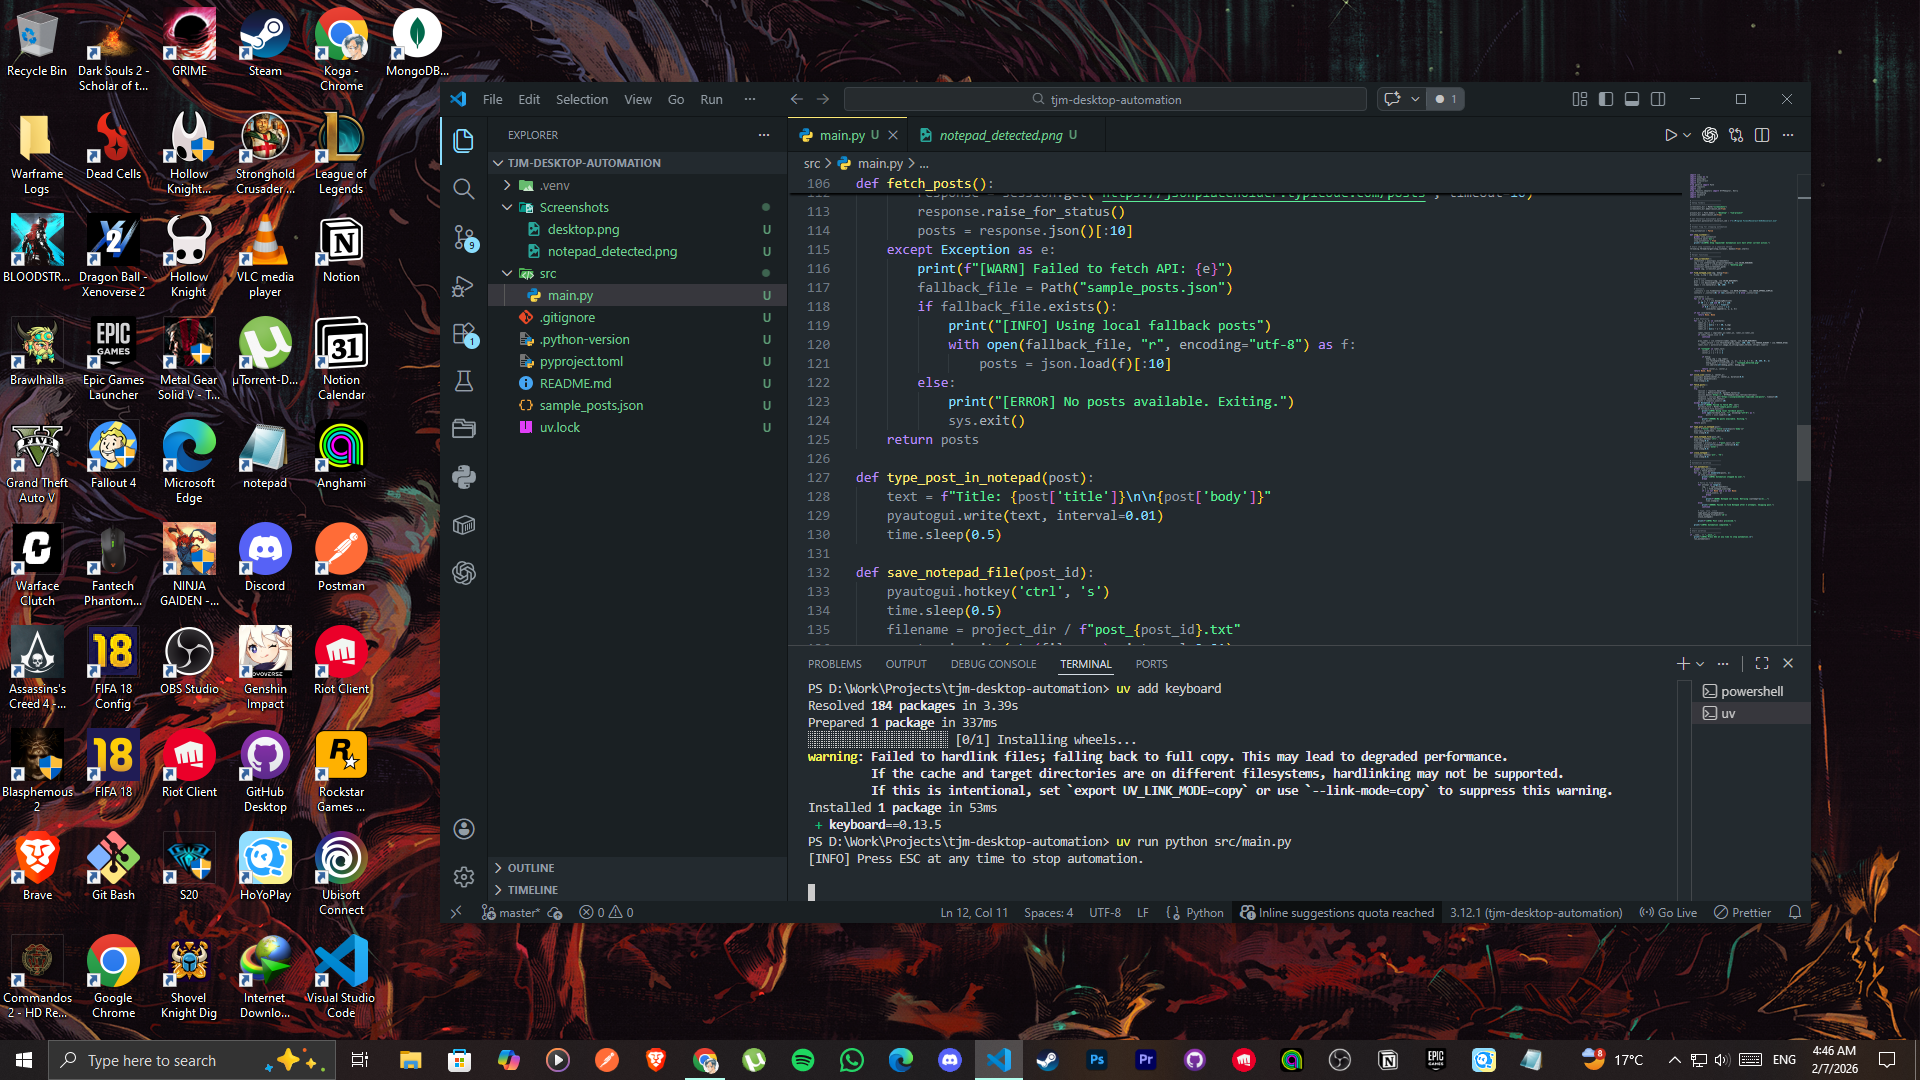
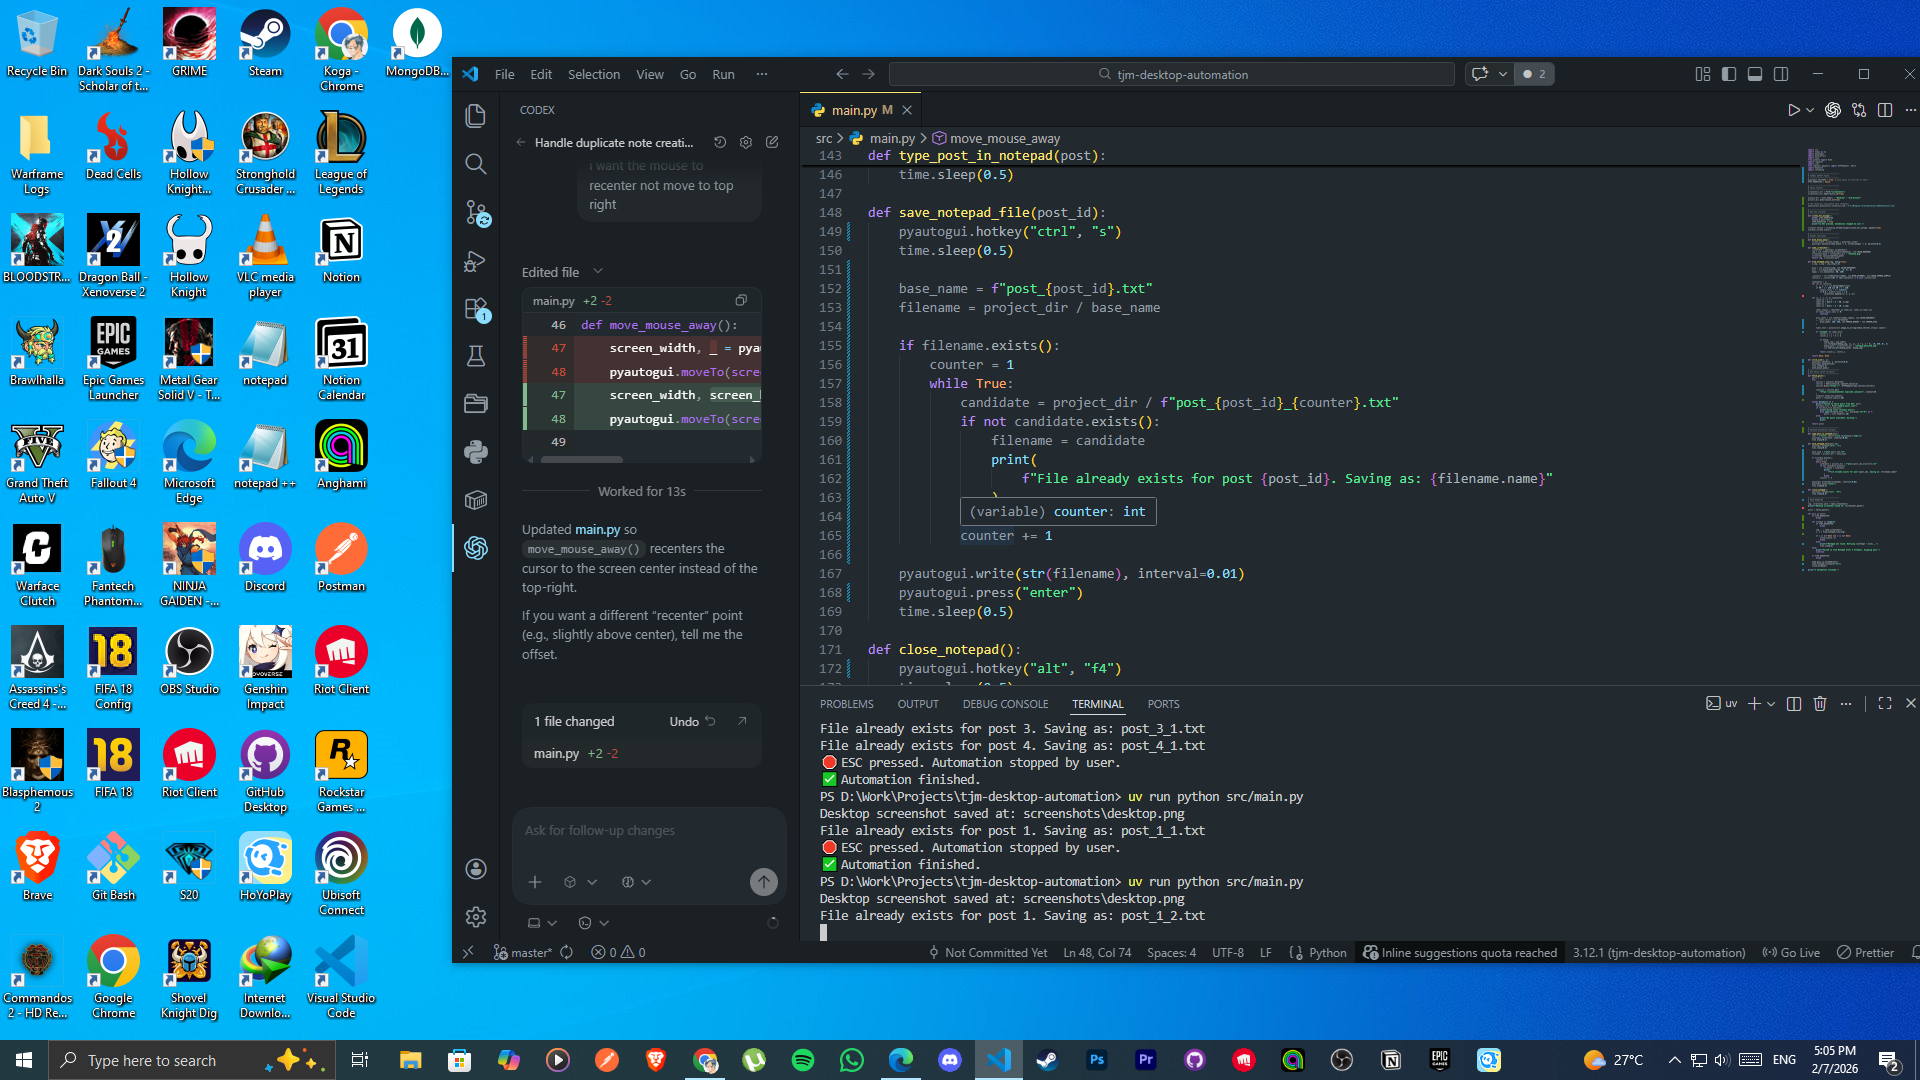
Failsafe Added

diff --git a/src/main.py b/src/main.py
@@ -7,7 +7,14 @@ from pathlib import Path
 import requests
 import json
 from requests.adapters import HTTPAdapter, Retry
-import os
+import keyboard
+import threading
+
+# -----------------------------
+# GLOBAL SAFETY FLAGS
+# -----------------------------
+pyautogui.FAILSAFE = True  # move mouse to top-left to abort
+STOP_REQUESTED = False
 
 # -----------------------------
 # Setup folders
@@ -15,11 +22,31 @@ import os
 screenshots_dir = Path("screenshots")
 screenshots_dir.mkdir(exist_ok=True)
 
+project_dir = Path.home() / "Desktop" / "tjm-project"
+project_dir.mkdir(exist_ok=True)
+
+# Set Tesseract executable path (Windows)
 pytesseract.pytesseract.tesseract_cmd = r"C:\Program Files\Tesseract-OCR\tesseract.exe"
+
+# -----------------------------
+# ESC key listener
+# -----------------------------
+def listen_for_escape():
+    global STOP_REQUESTED
+    keyboard.wait("esc")
+    STOP_REQUESTED = True
+    print("🛑 ESC pressed. Automation stopped by user.")
+
+listener_thread = threading.Thread(target=listen_for_escape, daemon=True)
+listener_thread.start()
 
 # -----------------------------
 # Helper functions
 # -----------------------------
+def move_mouse_away():
+    screen_width, screen_height = pyautogui.size()
+    pyautogui.moveTo(screen_width // 2, screen_height // 2, duration=0.3)
+
 def take_screenshot():
     screenshot = pyautogui.screenshot()
     img = cv2.cvtColor(np.array(screenshot), cv2.COLOR_RGB2BGR)
@@ -45,9 +72,6 @@ def find_notepad_icon(img, debug=True):
             if 0.8 < aspect_ratio < 1.2:
                 candidates.append((x, y, w, h))
 
-    if not candidates:
-        return None, None
-
     for (x, y, w, h) in candidates:
         label_y1 = y + h
         label_y2 = min(y + h + 40, h_img)
@@ -59,10 +83,13 @@ def find_notepad_icon(img, debug=True):
             continue
 
         gray_label = cv2.cvtColor(label_region, cv2.COLOR_BGR2GRAY)
-        _, label_thresh = cv2.threshold(gray_label, 150, 255, cv2.THRESH_BINARY + cv2.THRESH_OTSU)
-        label_text = pytesseract.image_to_string(label_thresh).strip()
+        _, label_thresh = cv2.threshold(
+            gray_label, 150, 255, cv2.THRESH_BINARY + cv2.THRESH_OTSU
+        )
 
-        if "notepad" in label_text.lower():
+        label_text = pytesseract.image_to_string(label_thresh).strip().lower()
+
+        if "notepad" in label_text:
             center_x = x + w // 2
             center_y = y + h // 2
 
@@ -76,23 +103,27 @@ def find_notepad_icon(img, debug=True):
 
     return None, None
 
-def click_icon(center_x, center_y):
-    pyautogui.moveTo(center_x, center_y, duration=0.5)
+def click_icon(x, y):
+    pyautogui.moveTo(x, y, duration=0.4)
     pyautogui.doubleClick()
-    time.sleep(1.5)
-
-project_dir = Path.home() / "Desktop" / "tjm-project"
-project_dir.mkdir(exist_ok=True)
-
+    time.sleep(1.2)
+    move_mouse_away()
+# -----------------------------
+# API Fetch (with fallback)
+# -----------------------------
 def fetch_posts():
     posts = []
     try:
         session = requests.Session()
         retries = Retry(total=5, backoff_factor=1)
-        session.mount('https://', HTTPAdapter(max_retries=retries))
-        response = session.get("https://jsonplaceholder.typicode.com/posts", timeout=10)
+        session.mount("https://", HTTPAdapter(max_retries=retries))
+
+        response = session.get(
+            "https://jsonplaceholder.typicode.com/posts", timeout=10
+        )
         response.raise_for_status()
         posts = response.json()[:10]
+
     except Exception as e:
         print(f"Failed to fetch posts from API: {e}")
         fallback_file = Path("sample_posts.json")
@@ -103,56 +134,78 @@ def fetch_posts():
         else:
             print("No posts available. Exiting.")
             exit()
+
     return posts
 
+# -----------------------------
+# Notepad automation helpers
+# -----------------------------
 def type_post_in_notepad(post):
     text = f"Title: {post['title']}\n\n{post['body']}"
     pyautogui.write(text, interval=0.01)
     time.sleep(0.5)
 
 def save_notepad_file(post_id):
-    pyautogui.hotkey('ctrl', 's')
+    pyautogui.hotkey("ctrl", "s")
     time.sleep(0.5)
-    filename = project_dir / f"post_{post_id}.txt"
+
+    base_name = f"post_{post_id}.txt"
+    filename = project_dir / base_name
+
+    if filename.exists():
+        counter = 1
+        while True:
+            candidate = project_dir / f"post_{post_id}_{counter}.txt"
+            if not candidate.exists():
+                filename = candidate
+                print(
+                    f"File already exists for post {post_id}. Saving as: {filename.name}"
+                )
+                break
+            counter += 1
+
     pyautogui.write(str(filename), interval=0.01)
-    pyautogui.press('enter')
+    pyautogui.press("enter")
     time.sleep(0.5)
 
 def close_notepad():
-    pyautogui.hotkey('alt', 'f4')
+    pyautogui.hotkey("alt", "f4")
     time.sleep(0.5)
 
 # -----------------------------
-# Main workflow
+# MAIN WORKFLOW
 # -----------------------------
 img, screenshot_path = take_screenshot()
 print(f"Desktop screenshot saved at: {screenshot_path}")
 
-center_x, center_y = find_notepad_icon(img)
-if center_x is not None and center_y is not None:
-    click_icon(center_x, center_y)
-    print(f"Notepad icon clicked at: ({center_x}, {center_y})")
-else:
-    print("Notepad icon not found. Make sure it's visible and labeled correctly.")
-
 posts = fetch_posts()
 
 for post in posts:
+    if STOP_REQUESTED:
+        break
+
     for attempt in range(3):
+        if STOP_REQUESTED:
+            break
+
         img, _ = take_screenshot()
         x, y = find_notepad_icon(img)
+
         if x is not None and y is not None:
             click_icon(x, y)
             break
         else:
-            print(f"Notepad not found. Retrying ({attempt+1}/3)...")
+            print(f"Notepad not found. Retrying ({attempt + 1}/3)...")
             time.sleep(1)
     else:
         print("Failed to find Notepad after 3 attempts. Skipping post.")
         continue
 
+    if STOP_REQUESTED:
+        break
+
     type_post_in_notepad(post)
-    save_notepad_file(post['id'])
+    save_notepad_file(post["id"])
     close_notepad()
 
-print("All posts processed successfully.")
+print("✅ Automation finished.")
